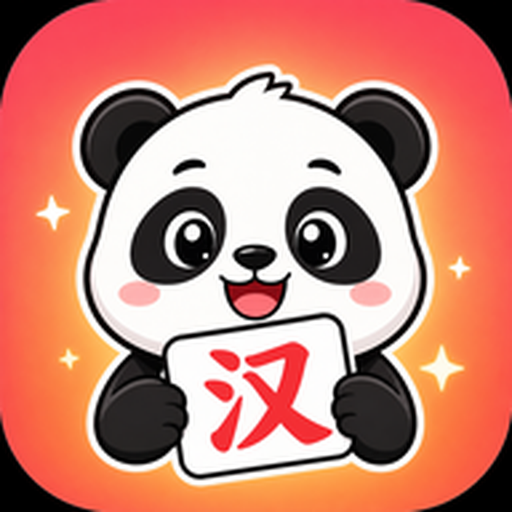
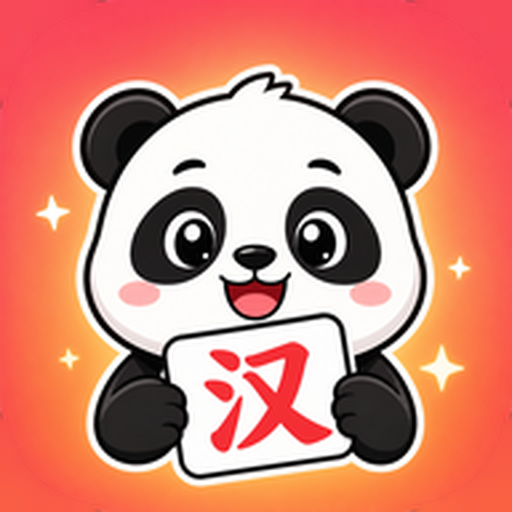
fix: docs/store 아이콘 사본 동기화 및 미사용 자산 정리
- docs/store/play_icon_512.png 가 구버전(검정 모서리)이던 문제 교정
- assets/icon/app_icon.png 풀블리드 교정
- 참조되지 않던 assets/images/panda_mascot.png(946KB) 및 pubspec assets 항목 제거
- PLAY_STORE_LISTING.md 8장에 업로드용/보관용 파일 구분 명시

diff --git a/docs/store/PLAY_STORE_LISTING.md b/docs/store/PLAY_STORE_LISTING.md
@@ -920,9 +920,23 @@ curl -s -o /dev/null -w "%{http_code}\n" \
 | `web/favicon.png` | 32×32 | 파비콘, 풀블리드로 교정 |
 | `web/icons/Icon-maskable-512.png` | 512×512 | 마스커블 PWA 아이콘, 안전영역 78%로 재생성 |
 | `web/icons/Icon-maskable-192.png` | 192×192 | 마스커블 PWA 아이콘, 안전영역 78%로 재생성 |
+| `assets/icon/app_icon.png` | 192×192 | 아이콘 원본 사본, 풀블리드로 교정 |
 
 > 모든 파일 위치: `/home/user/store_assets/` 및 `/home/user/flutter_app/docs/store/`
 > 아이콘 재생성 스크립트: `/home/user/scripts/fix_icon_fullbleed.py`
+> 마스커블 생성 스크립트: `/home/user/scripts/make_maskable_icons.py`
+
+**⚠ 파일이 두 곳에 있습니다 — 업로드용은 반드시 이쪽**
+
+| 위치 | 역할 |
+|---|---|
+| `/home/user/store_assets/play_icon_512.png` | Play Console 업로드용 **정본** |
+| `/home/user/flutter_app/docs/store/play_icon_512.png` | 저장소에 함께 커밋되는 사본 (내용 동일) |
+| `/home/user/store_assets/play_icon_512.orig.png` | 수정 전 원본 (보관, **업로드 금지**) |
+
+> 두 파일은 `cmp` 로 동일성을 확인합니다. 아이콘을 다시 만들면
+> **양쪽 모두 갱신**해야 합니다. 수정 전 원본(`*.orig.png`)을 실수로 올리면
+> 모서리 검정 때문에 디자인 사양 위반이 되므로 주의하세요.
 
 ---
 
